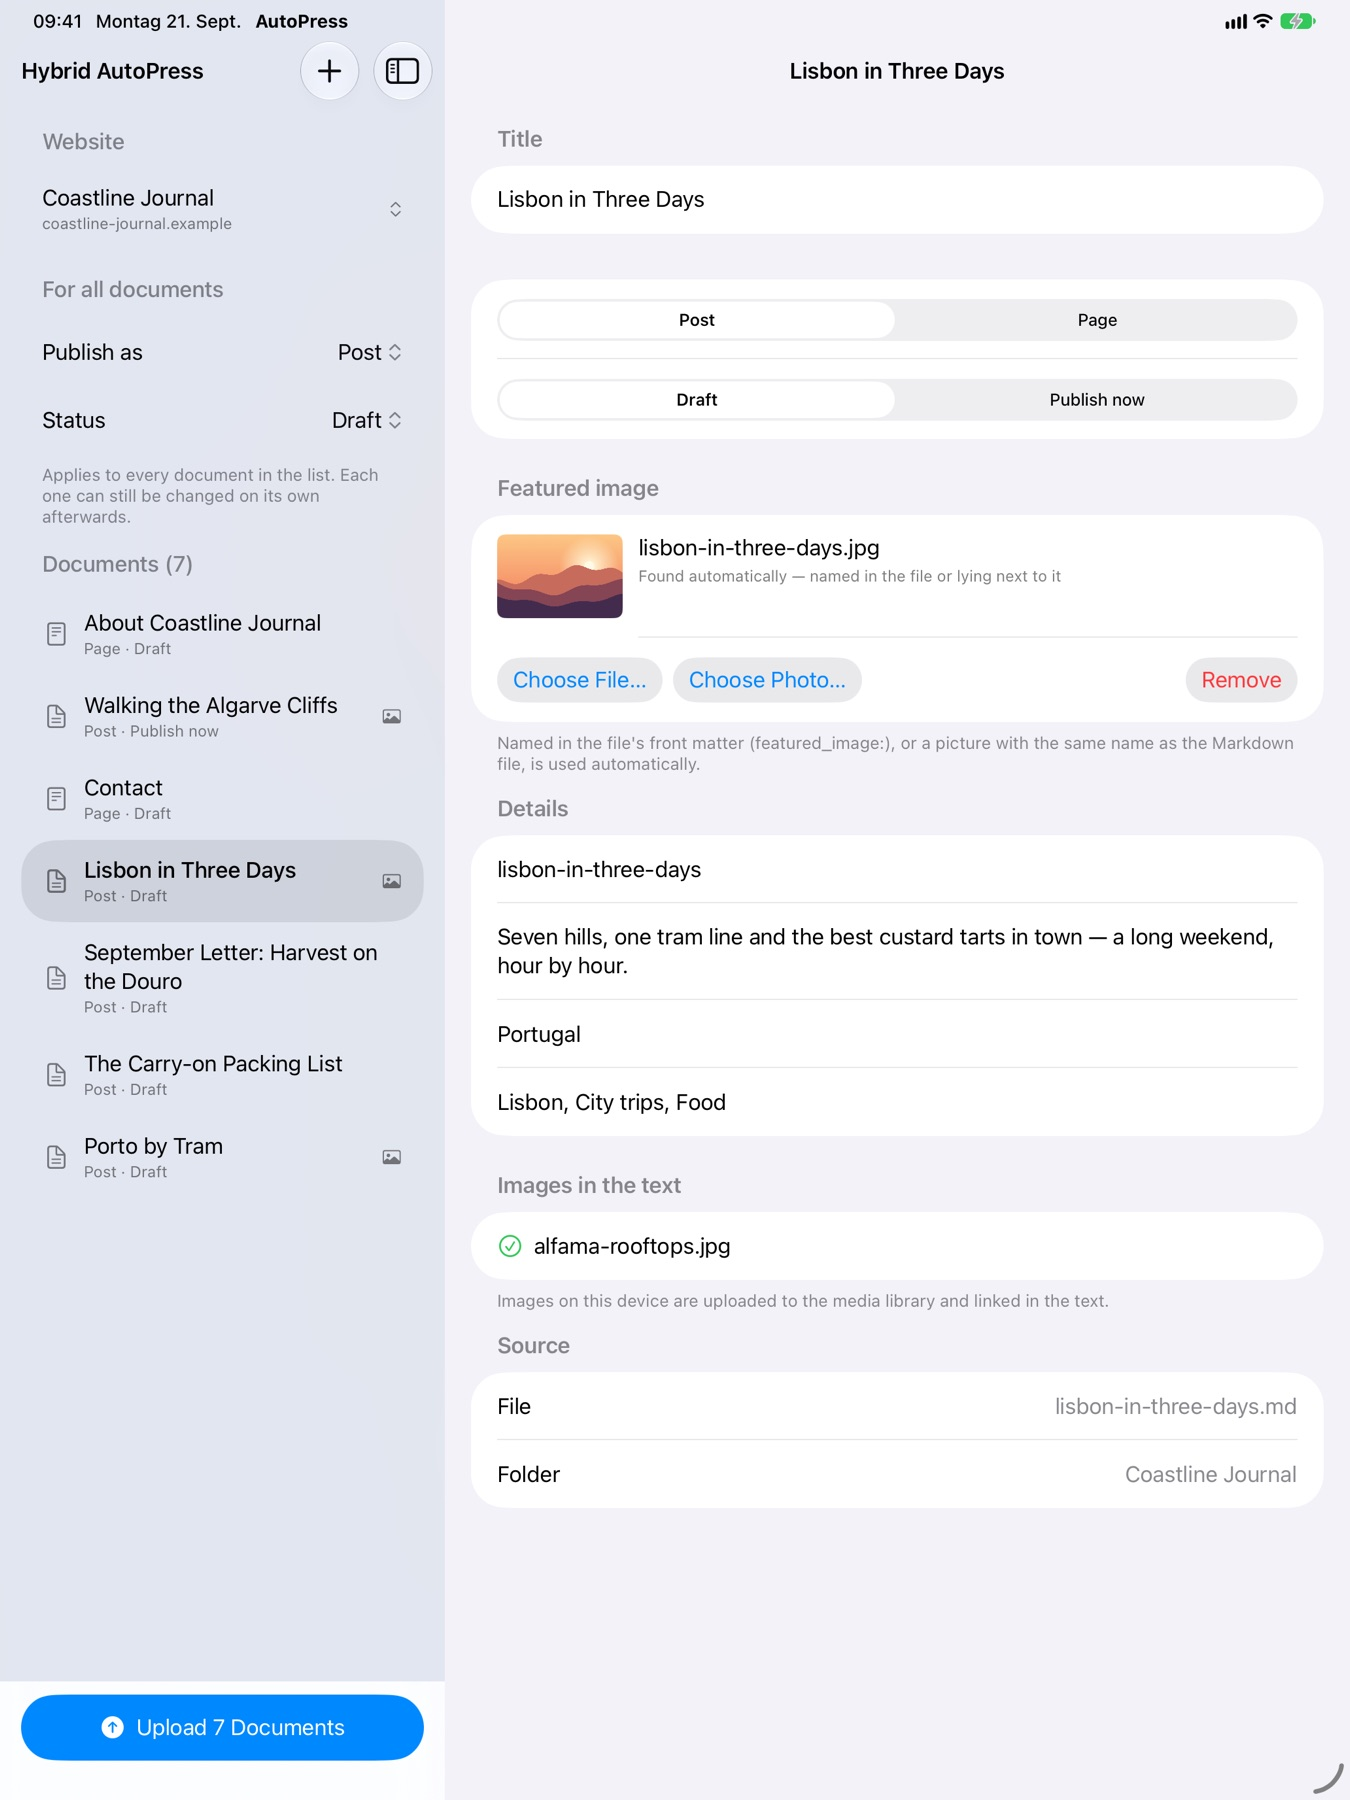
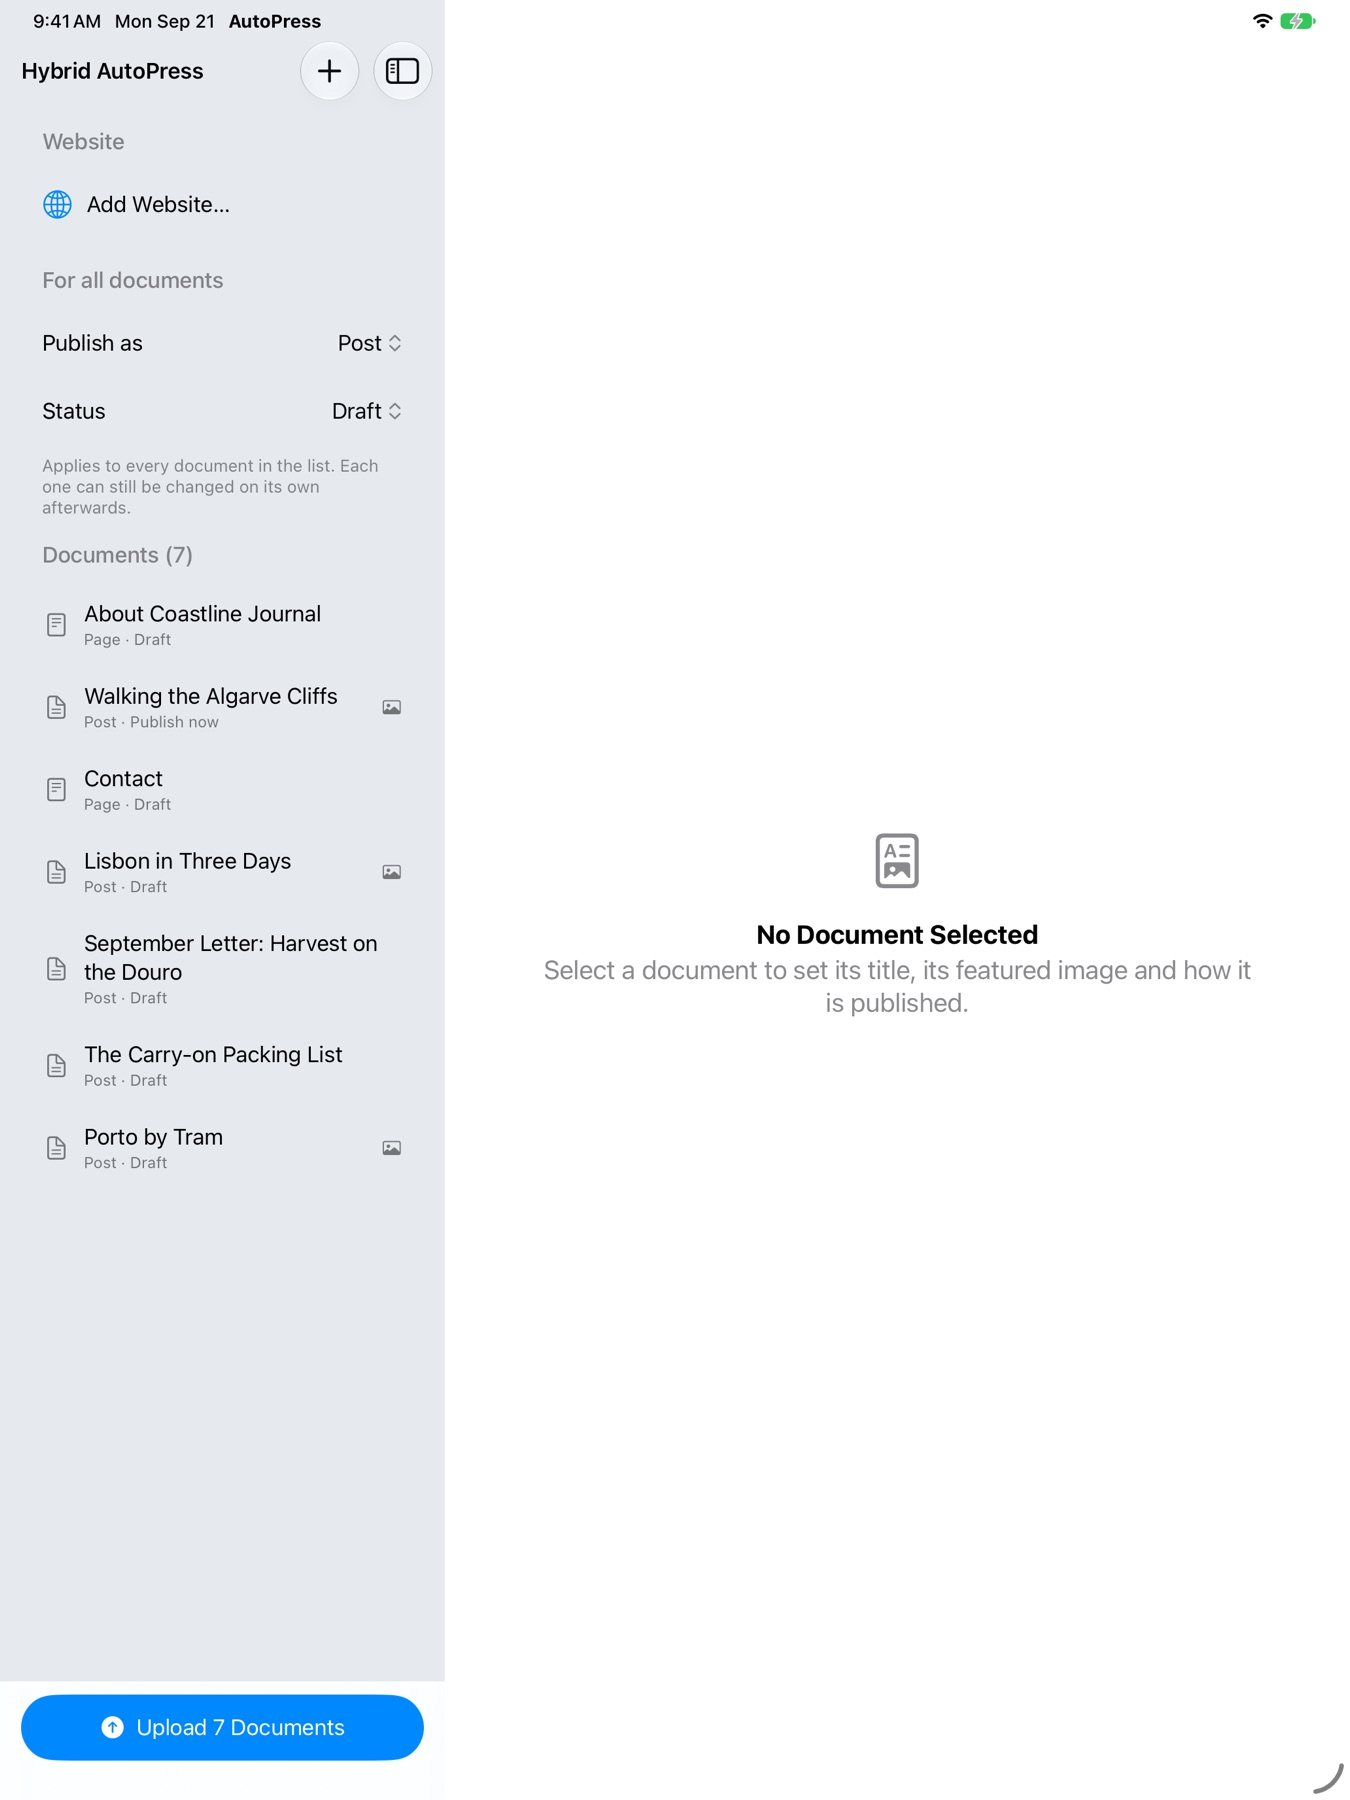
Own Impressum in the site's design; iPad screenshots with English locale

diff --git a/impressum/index.html b/impressum/index.html
@@ -1,0 +1,107 @@
+<!doctype html>
+<html lang="de">
+<head>
+<meta charset="utf-8">
+<meta name="viewport" content="width=device-width, initial-scale=1, viewport-fit=cover">
+<title>Impressum — Hybrid AutoPress</title>
+<meta name="description" content="Impressum (Legal Notice) der Website von Hybrid AutoPress.">
+<meta name="robots" content="noindex, follow">
+<meta name="theme-color" content="#1a3a5e">
+<link rel="canonical" href="https://kskhugo.github.io/autopress/impressum/">
+<link rel="icon" type="image/png" href="../assets/img/favicon.png">
+<link rel="apple-touch-icon" href="../assets/img/apple-touch-icon.png">
+<link rel="stylesheet" href="../assets/style.css">
+</head>
+<body class="legal-page">
+<a class="skip" href="#main">Zum Inhalt springen</a>
+
+<header class="nav">
+  <div class="nav__inner">
+    <a class="brand" href="../de/" aria-label="Hybrid AutoPress — Startseite">
+      <img src="../assets/img/favicon.png" alt="" width="30" height="30">
+      <span>Hybrid AutoPress</span>
+    </a>
+    <nav class="nav__links" aria-label="Seite">
+      <a href="../de/">Startseite</a>
+      <a class="lang" href="../" hreflang="en" lang="en">
+        <svg viewBox="0 0 24 24" fill="none" stroke="currentColor" stroke-width="2" stroke-linecap="round" stroke-linejoin="round" aria-hidden="true"><circle cx="12" cy="12" r="10"/><path d="M12 2a14.5 14.5 0 0 0 0 20 14.5 14.5 0 0 0 0-20"/><path d="M2 12h20"/></svg>
+        English
+      </a>
+    </nav>
+  </div>
+</header>
+
+<main id="main">
+  <section class="legal-hero panel--navy">
+    <div class="wrap">
+      <p class="eyebrow">Legal Notice</p>
+      <h1>Impressum</h1>
+      <p class="lede" lang="en">This legal notice is required by German law (§ 5 DDG) and therefore provided in German. It applies to the website of Hybrid AutoPress at kskhugo.github.io/autopress.</p>
+    </div>
+  </section>
+
+  <section class="legal">
+    <div class="wrap legal__grid">
+      <article class="legal__card">
+        <h2>Angaben gemäß § 5 DDG</h2>
+        <address>
+          Pascal Hugo<br>
+          Kropsburgstr. 5a<br>
+          76767 Hagenbach<br>
+          Deutschland
+        </address>
+      </article>
+
+      <article class="legal__card">
+        <h2>Kontakt</h2>
+        <p>E-Mail: <a href="mailto:pascal@pascalhugo.de">pascal@pascalhugo.de</a></p>
+      </article>
+
+      <article class="legal__card">
+        <h2>Verantwortlich für den Inhalt nach § 18 Abs. 2 MStV</h2>
+        <address>
+          Pascal Hugo<br>
+          Kropsburgstr. 5a<br>
+          76767 Hagenbach
+        </address>
+      </article>
+
+      <article class="legal__card">
+        <h2>Umsatzsteuer-ID</h2>
+        <p>Umsatzsteuer-Identifikationsnummer gemäß § 27a Umsatzsteuergesetz:<br><strong>DE306952683</strong></p>
+      </article>
+
+      <article class="legal__card legal__card--wide">
+        <h2>Verbraucherstreitbeilegung</h2>
+        <p>Wir sind nicht bereit und nicht verpflichtet, an Streitbeilegungsverfahren vor einer Verbraucherschlichtungsstelle teilzunehmen.</p>
+      </article>
+
+      <article class="legal__card legal__card--wide">
+        <h2>Urheberrecht und Marken</h2>
+        <p>Die Inhalte dieser Website unterliegen dem deutschen Urheberrecht. Vervielfältigung, Bearbeitung und Verbreitung außerhalb der Grenzen des Urheberrechts bedürfen der schriftlichen Zustimmung des Anbieters.</p>
+        <p>WordPress ist eine Marke der WordPress Foundation. Hybrid AutoPress ist eine unabhängige App und steht in keiner Verbindung zur WordPress Foundation, zu Automattic oder zu den auf dieser Website genannten Hosting-Anbietern. Apple, iPhone, iPad, Mac und App Store sind Marken der Apple Inc.</p>
+      </article>
+
+      <p class="legal__back"><a class="link" href="../de/">
+        <svg viewBox="0 0 24 24" fill="none" stroke="currentColor" stroke-width="2" stroke-linecap="round" stroke-linejoin="round" aria-hidden="true"><path d="M19 12H5"/><path d="m12 19-7-7 7-7"/></svg>
+        Zurück zur Startseite</a>
+        <a class="link" href="../" lang="en" hreflang="en">Back to the home page
+        <svg viewBox="0 0 24 24" fill="none" stroke="currentColor" stroke-width="2" stroke-linecap="round" stroke-linejoin="round" aria-hidden="true"><path d="M5 12h14"/><path d="m12 5 7 7-7 7"/></svg></a>
+      </p>
+    </div>
+  </section>
+</main>
+
+<footer>
+  <div class="wrap">
+    <nav aria-label="Footer">
+      <a href="./" aria-current="page">Impressum</a>
+      <a href="https://hybrid-editor.com/datenschutz/">Datenschutz</a>
+      <a href="https://hybrid-editor.com/de/">Hybrid Editor</a>
+      <a href="../" hreflang="en" lang="en">English</a>
+    </nav>
+    <p>© 2026 Pascal Hugo · Hybrid AutoPress</p>
+  </div>
+</footer>
+</body>
+</html>

diff --git a/assets/style.css b/assets/style.css
@@ -350,3 +350,22 @@ footer a:hover { text-decoration: underline; }
   .soon i { animation: none; }
   .hero__shot { transform: none; }
 }
+
+/* ── Legal pages (Impressum) ────────────────────────────────── */
+
+.legal-hero { padding: calc(var(--nav-h) + clamp(48px, 9vh, 96px)) var(--gutter) clamp(48px, 8vh, 80px); }
+.legal-hero .lede { max-width: 44em; }
+.legal { padding: clamp(40px, 7vh, 80px) var(--gutter) clamp(64px, 10vh, 112px); }
+.legal__grid { display: grid; grid-template-columns: repeat(2, minmax(0, 1fr)); gap: 18px; }
+.legal__card { background: #fff; border: 1px solid var(--line); border-radius: 24px; padding: 28px 30px; }
+.legal__card--wide { grid-column: 1 / -1; }
+.legal__card h2 {
+  font-size: 13px; line-height: 1.4; font-weight: 650; letter-spacing: 0.12em; text-transform: uppercase;
+  color: var(--amber-ink); margin-bottom: 14px; text-wrap: pretty;
+}
+.legal__card p, .legal__card address { font-style: normal; font-size: 17px; line-height: 1.6; color: var(--ink); max-width: 62em; }
+.legal__card p + p { margin-top: 14px; color: var(--ink-2); }
+.legal__card a { color: var(--amber-ink); font-weight: 600; text-underline-offset: 3px; }
+.legal__back { grid-column: 1 / -1; display: flex; flex-wrap: wrap; gap: 8px 32px; justify-content: space-between; margin-top: 14px; }
+@media (max-width: 760px) { .legal__grid { grid-template-columns: 1fr; } }
+.brand span { white-space: nowrap; }

diff --git a/index.html b/index.html
@@ -271,7 +271,7 @@ Lisbon rewards people who walk …
 <footer>
   <div class="wrap">
     <nav aria-label="Footer">
-      <a href="https://hybrid-editor.com/impressum/">Legal Notice (Impressum)</a>
+      <a href="impressum/">Legal Notice (Impressum)</a>
       <a href="https://hybrid-editor.com/datenschutz/">Privacy Policy</a>
       <a href="https://hybrid-editor.com/">Hybrid Editor</a>
       <a href="de/" hreflang="de" lang="de">Deutsch</a>

diff --git a/de/index.html b/de/index.html
@@ -271,7 +271,7 @@ Lisbon rewards people who walk …
 <footer>
   <div class="wrap">
     <nav aria-label="Footer">
-      <a href="https://hybrid-editor.com/impressum/">Impressum</a>
+      <a href="../impressum/">Impressum</a>
       <a href="https://hybrid-editor.com/datenschutz/">Datenschutz</a>
       <a href="https://hybrid-editor.com/de/">Hybrid Editor</a>
       <a href="../" hreflang="en" lang="en">English</a>

diff --git a/build.py b/build.py
@@ -86,7 +86,7 @@ EN = {
     "end_lede": "Hybrid AutoPress is coming to the App Store — one app for iPhone, iPad and Mac.",
     "req": "Requires iOS 17, iPadOS 17 or macOS 14 · English and German",
     "foot_imprint": "Legal Notice (Impressum)", "foot_privacy": "Privacy Policy", "foot_hybrid": "Hybrid Editor",
-    "foot_imprint_href": "https://hybrid-editor.com/impressum/", "foot_privacy_href": "https://hybrid-editor.com/datenschutz/",
+    "foot_imprint_href": "impressum/", "foot_privacy_href": "https://hybrid-editor.com/datenschutz/",
     "foot_hybrid_href": "https://hybrid-editor.com/",
     "fine": "WordPress is a trademark of the WordPress Foundation. Hybrid AutoPress is an independent app and is not affiliated with or endorsed by the WordPress Foundation, Automattic or any of the hosting companies named. Apple, iPhone, iPad, Mac and App Store are trademarks of Apple Inc. The screenshots show sample content.",
 }
@@ -163,6 +163,7 @@ DE = dict(EN, **{
     "end_lede": "Hybrid AutoPress kommt in den App Store — eine App für iPhone, iPad und Mac.",
     "req": "Benötigt iOS 17, iPadOS 17 oder macOS 14 · Englisch und Deutsch",
     "foot_imprint": "Impressum", "foot_privacy": "Datenschutz", "foot_hybrid": "Hybrid Editor",
+    "foot_imprint_href": "../impressum/",
     "foot_hybrid_href": "https://hybrid-editor.com/de/",
     "fine": "WordPress ist eine Marke der WordPress Foundation. Hybrid AutoPress ist eine unabhängige App und steht in keiner Verbindung zur WordPress Foundation, zu Automattic oder zu den genannten Hosting-Anbietern. Apple, iPhone, iPad, Mac und App Store sind Marken von Apple Inc. Die Screenshots zeigen Beispielinhalte; die Oberfläche der App gibt es auf Deutsch und Englisch.",
 })

diff --git a/README.md b/README.md
@@ -16,6 +16,7 @@ build.py           the words, per language; writes index.html and de/index.html
 assets/style.css   design: navy #1A3A5E / #254E7A and amber #F59E0B from the app icon
 assets/site.js     reveal on scroll, the pinned walkthrough, the hero zoom
 assets/img/        app icon and screenshots (Mac, iPad, iPhone)
+impressum/         the legal notice (German law), a static page in the same design
 serve.js           tiny static server for a local preview: node serve.js
 ```
 
